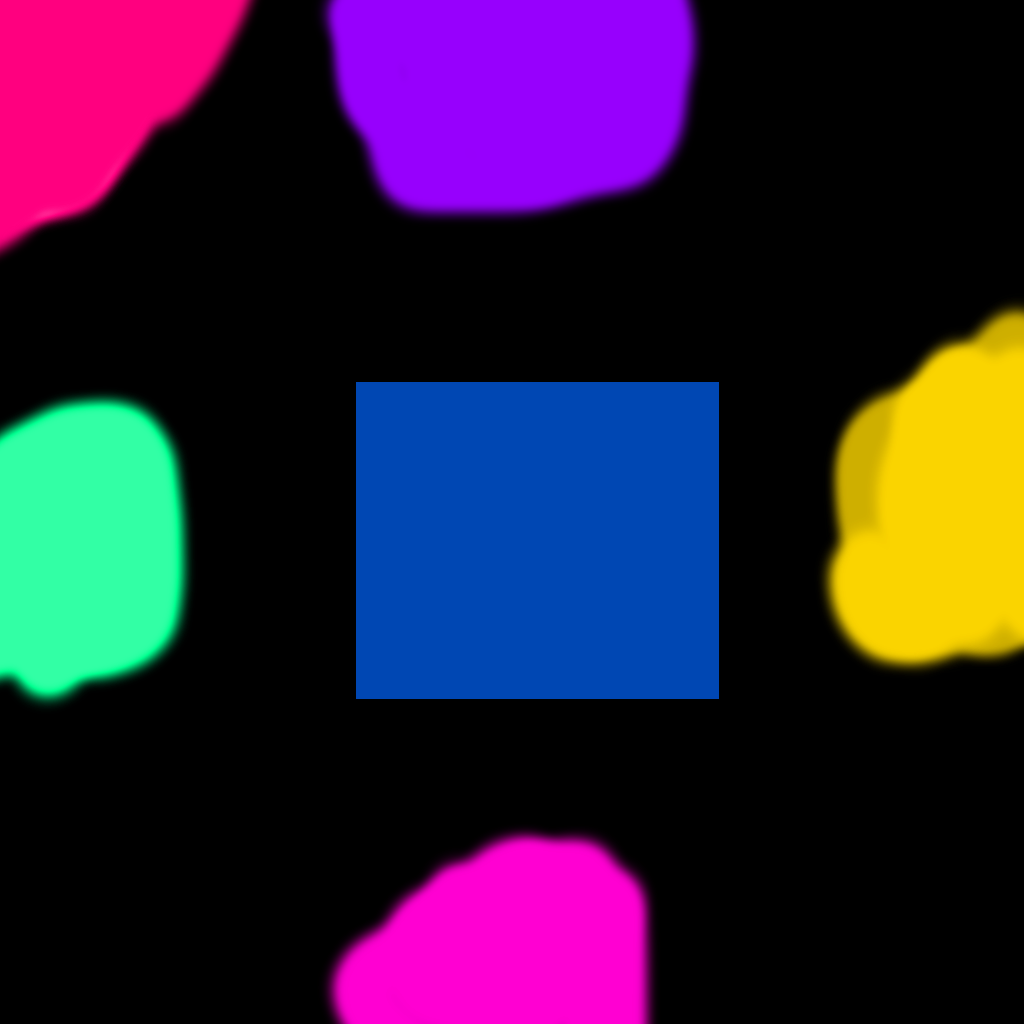
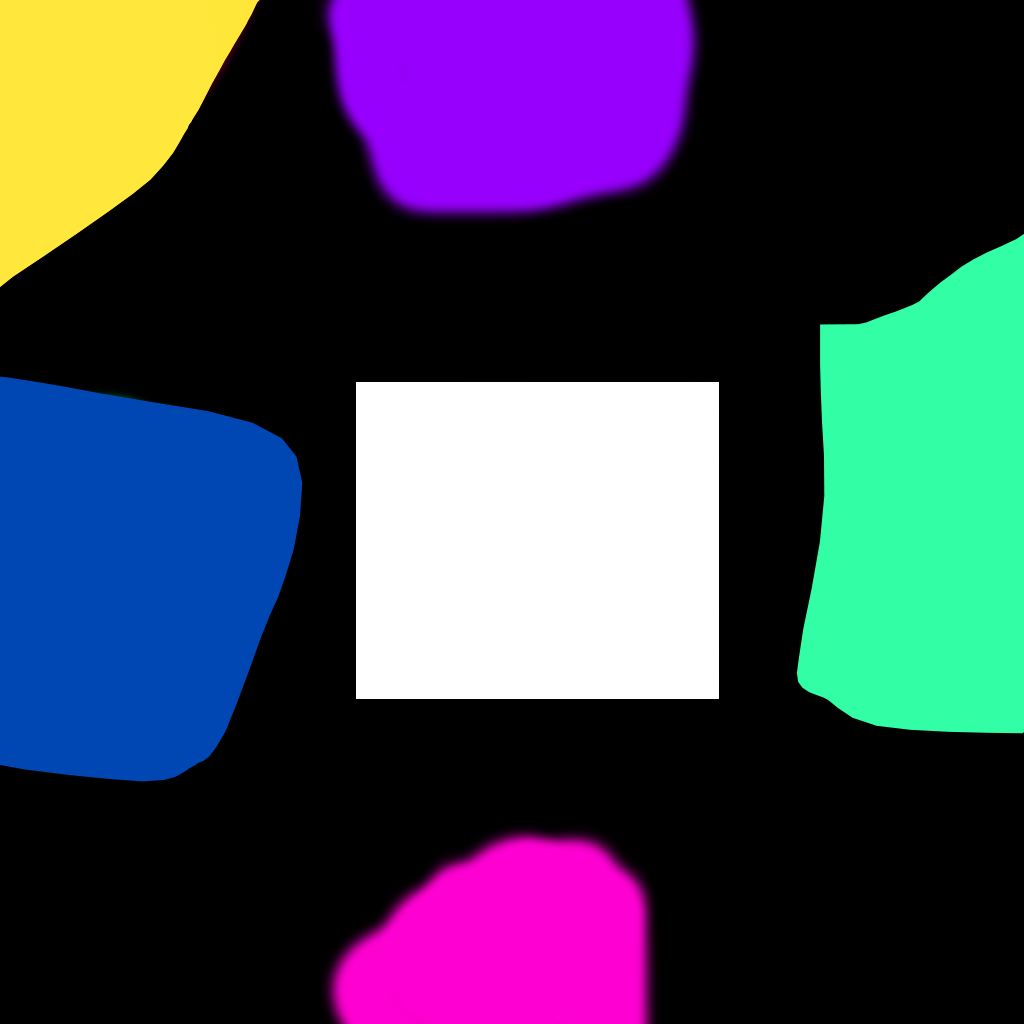
updated alt color schemes, added cube solved stage

diff --git a/qb_solver/__init__.py b/qb_solver/__init__.py
@@ -578,6 +578,7 @@ def updateCurrentHint(hintText, hintPicture, next_piece, next_stage):
     current_piece = next_piece
     current_stage = next_stage
 
+    showhints = True
     if current_stage == 0:
         hintDisplay.icon = 'hint1'
     elif current_stage == 1:
@@ -592,7 +593,11 @@ def updateCurrentHint(hintText, hintPicture, next_piece, next_stage):
         hintDisplay.icon = 'hint6'
     elif current_stage == 6:
         hintDisplay.icon = 'hint7'
-
+    elif current_stage == -1:
+        hintDisplay.icon = 'hint8'
+        showhints = False
+    hintMoveButton.enabled = showhints
+    hintDetailButton.enabled = showhints
     if blinking:
         cube.unblink()
         cube.blink(current_piece)
